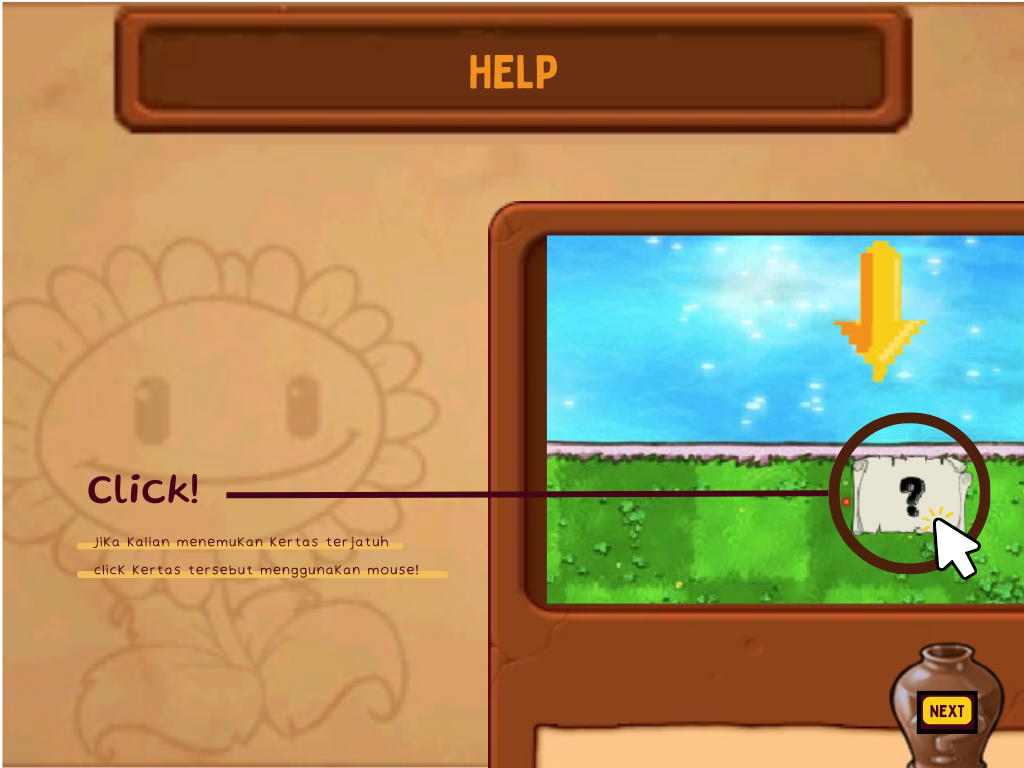
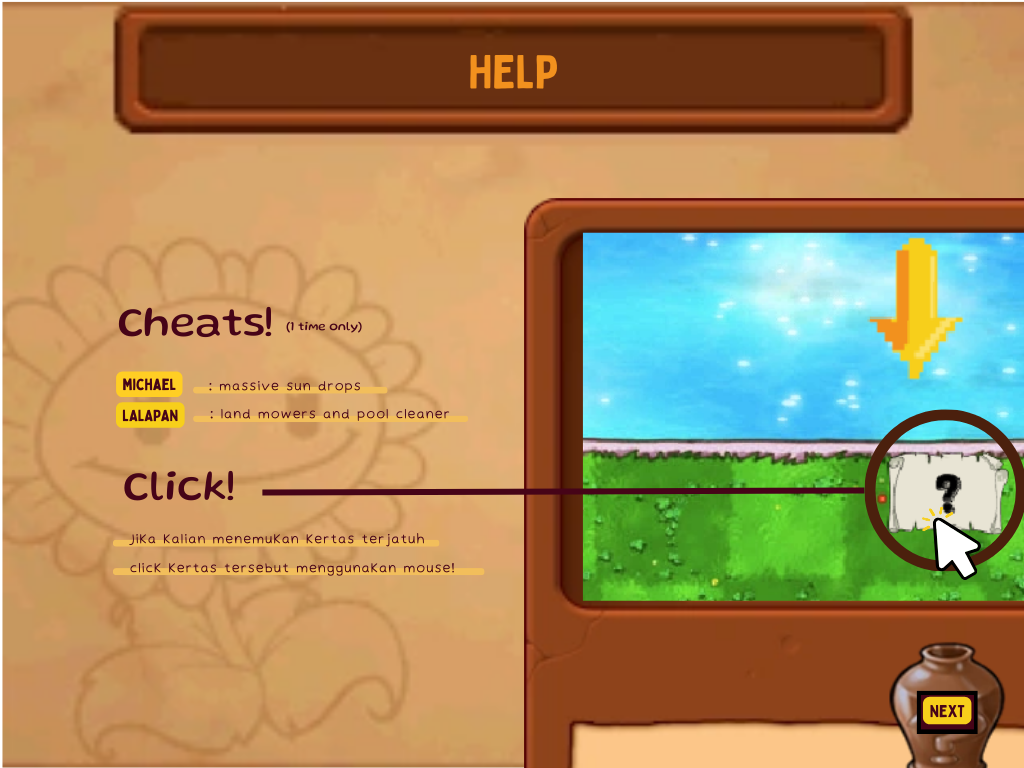
changed some images

Changed region(s): [[0.0625, 0.25, 1.0, 1.0], [0.0938, 0.4062, 0.3438, 0.4375], [0.9688, 0.9375, 1.0, 0.9688]]

diff --git a/src/managers/LandMowersManager.java b/src/managers/LandMowersManager.java
@@ -26,25 +26,40 @@ public class LandMowersManager implements ManagersUI {
         while (iterator.hasNext()) {
             LandMower l = iterator.next();
 
-            if (l != null)
+            if (l != null) {
                 l.move();
 
                 Iterator<Zombie> zombieIterator = zombies.iterator();
-
                 while (zombieIterator.hasNext()) {
                     Zombie z = zombieIterator.next();
 
-                    if (((int) z.getX() - 10 >= (int) l.getX() && (int) z.getX() <= (int) l.getX() + 10) && ((int) z.getY() == (int) l.getY())) {
-                        ZombiesManager.takeDamage(z, z.getHealth());
-
-				}
-
+                    if (checkCollision(l, z)) {
+                        ZombiesManager.takeDamage(z, z.getHealth()); // Deal lethal damage
+                    }
                 }
-                
+
                 if (l.getX() >= l.getDestructPos()) {
                     iterator.remove();
                 }
+            }
         }
+    }
+
+    private boolean checkCollision(LandMower l, Zombie z) {
+        int mowerX = (int) l.getX();
+        int mowerY = (int) l.getY();
+        int mowerWidth = 50;
+        int mowerHeight = 50;
+
+        int zombieX = (int) z.getX();
+        int zombieY = (int) z.getY();
+        int zombieWidth = 50;
+        int zombieHeight = 50;
+
+        return (mowerX < zombieX + zombieWidth &&
+                mowerX + mowerWidth > zombieX &&
+                mowerY < zombieY + zombieHeight &&
+                mowerY + mowerHeight > zombieY);
     }
 	
 

diff --git a/src/objects/Sun.java b/src/objects/Sun.java
@@ -14,7 +14,7 @@ import managers.SunDropManager;
 public class Sun {  
     private static int sun = 50;
     private static int tick;
-    private static int bonusTick = -1;
+    private static int cheatTick = -1;
     
     public static Timer timer;
     public static Timer tickTimer;
@@ -46,7 +46,7 @@ public class Sun {
                     SunDropManager.addSunDrop();
                 }
 
-                if (bonusTick != -1) {
+                if (cheatTick != -1) {
                     for (int i = 0; i < 5; i++) {
                         for (int j = 0; j < 5; j++) {
                             SunDropManager.addSunDrop();
@@ -91,8 +91,8 @@ public class Sun {
         return img;
     }
 
-    public static void setBonusTick(int bonusTick) {
-        Sun.bonusTick = bonusTick;
+    public static void setCheatTick(int cheatTick) {
+        Sun.cheatTick = cheatTick;
     }
 
     public static boolean getSunCheat() {
@@ -106,7 +106,7 @@ public class Sun {
             new Timer().schedule(new TimerTask() {
                 @Override
                 public void run() {
-                    Sun.bonusTick = -1;
+                    Sun.cheatTick = -1;
                 }
             }, 5000);
 

diff --git a/src/scenes/Playing.java b/src/scenes/Playing.java
@@ -240,7 +240,7 @@ public class Playing extends GameScene implements SceneMethods {
 
 	public void keyPressed(KeyEvent e) {
         // Capture key press for cheat code detection
-        char keyChar = e.getKeyChar();
+        char keyChar = Character.toLowerCase(e.getKeyChar());
         cheatCodeBuffer.append(keyChar);
         if (cheatCodeBuffer.length() > 7) {
             cheatCodeBuffer.deleteCharAt(0);
@@ -252,7 +252,7 @@ public class Playing extends GameScene implements SceneMethods {
         } else if (cheatCodeBuffer.toString().equals("michael") && !Sun.getSunCheat()) {
             System.out.println("Sun cheat activated");
             Sun.setSunCheat(true);
-            Sun.setBonusTick(Sun.getTick());
+            Sun.setCheatTick(Sun.getTick());
             cheatCodeBuffer.setLength(0); // Reset buffer after cheat code is activated
         }
 
